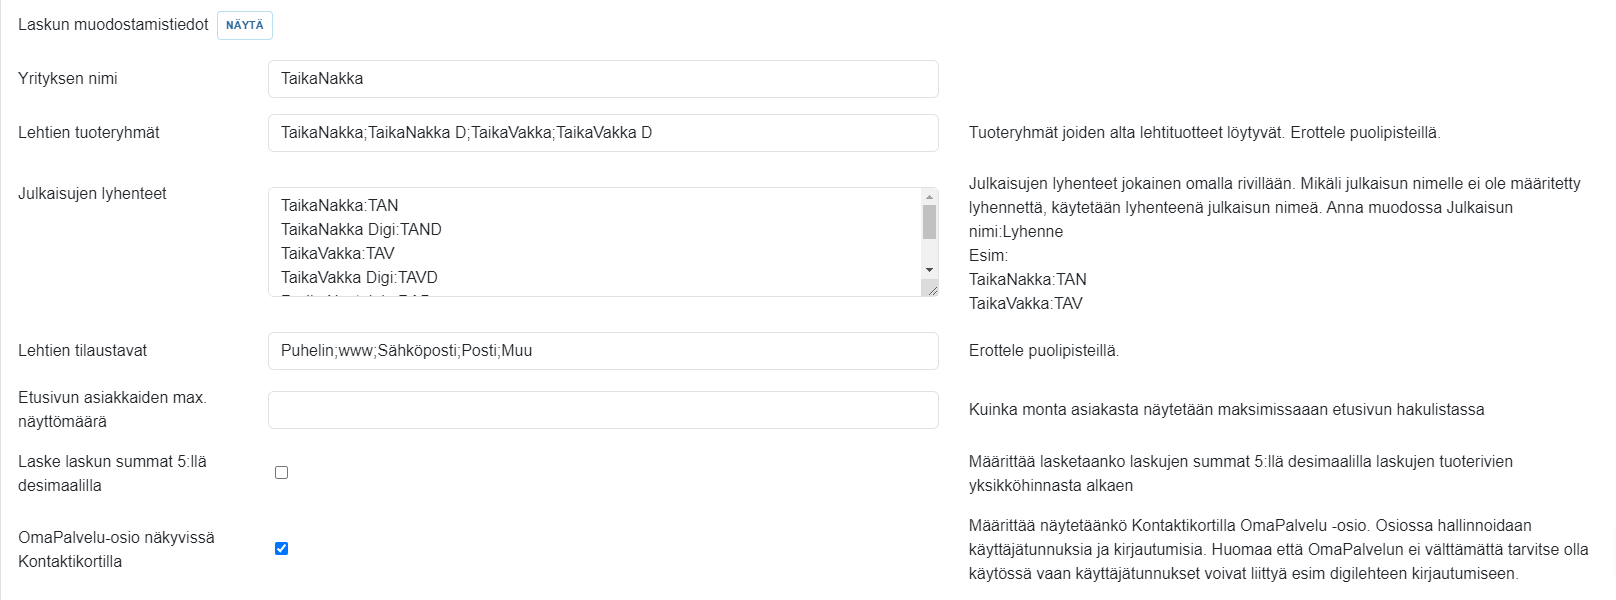
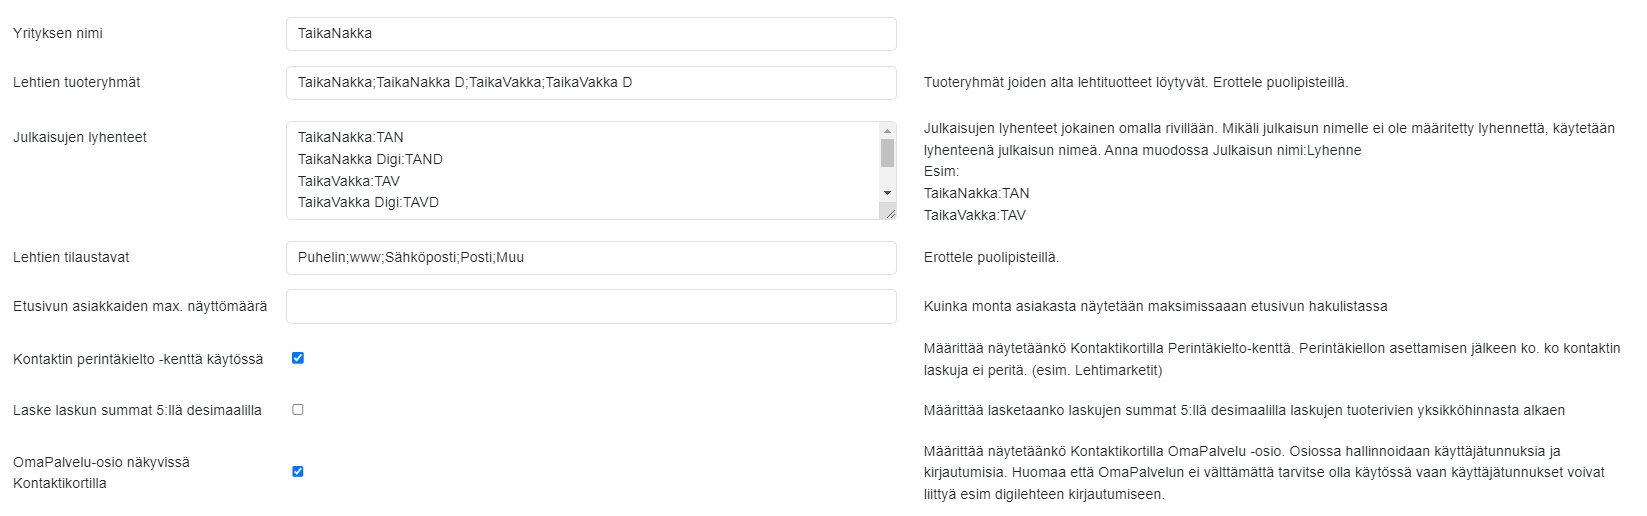
perintäkielto

diff --git a/docs/ohjeet/yleiset_ominaisuudet/asiakkaat.md b/docs/ohjeet/yleiset_ominaisuudet/asiakkaat.md
@@ -51,9 +51,11 @@ Laskutustiedoissa voidaan lisätä asiakkaalle laskutustietojen lisäksi muita t
 - **Suoramaksu**: Suoramaksun aktivointi on verkkopankittoman maksajan maksutapa, eli se sopii asiakkaalle, joka ei käytä verkkopankkia
 - **Koontilasku**: Koontilaskun aktivointi on asiakkaille, jotka haluavat tilaukset yhdelle kokoomalaskulle (yksittäisten tilauslaskujen sijaan)
 - **Laskutuslisä**: Ei laskutuslisää aktivointi on asiakkaille, joilta ei haluta periä automaattisesti lisättävää (ennalta sovittua) laskutuslisää paperilaskujen lähettämisestä (esim. 5 €). Veloitettava oletushinta ja mahdollinen laskun summaan liittyvä rajoitus (esim. peritään vain yli 50,00 € suuruisista laskuista tai pelkästään ilmoituslaskuista) sovitaan käyttöönoton yhteydessä.
+- **Perintäkielto**: aktivoimalla kentän, kyseisen asiakkaan ei maksumuistuteta tai peritä
 - **Alennusprosentti**: voidaan lisätä, jos halutaan lisätä asiakkaalle pysyvä alennusprosentti, joka huomioidaan laskujen luontivaiheessa automaattisesti.
-- **Maksuehto päivä** <!-- //teksti tähän  -->
+- **Maksuehto päivä**: voidaan lisätä kuinka monta päivää asiakkaalla on aikaa maksaa laskunsa, oletuksena aika on 14 päivää
 - **Ilmoitusasiakkaat**:  Lisäksi täällä ilmoitusasiakkaalle liitetään nimetty (oletus) Myyjä, jonka avulla heille aktivoituu Näytä ilmoitusmyynti -linkki Etusivun-listausnäkymään.
+- Jos asiakkaalla on **saldoa** palautuksena katkaistuista maksetuista tilauksista, se näkyy laskutietojen alla
 
 ![Asiakaskortti - Laskutustiedot](/img/ohjeet/laskutustiedot.png)
 *Laskutiedoista pääset muokkaamaan asiakkaan maksu- ja laskutietoja tai lisäämään asiakkaan tilauksille toisen maksaja*

diff --git a/docs/ohjeet/asetukset.md b/docs/ohjeet/asetukset.md
@@ -493,6 +493,7 @@ Painamalla Laskun muodostamistiedot vierässä olevaa **NÄYTÄ**-painiketta ava
 - **Julkaisujen lyhenteet** -kenttään kirjataan eri lehtijulkaisujen nimien lyhenteet omille riveilleen
 - **Lehtien tilaustavat** -kenttään kirjataan, miltä kanavilta lehtiä voi tilata
 - **Etusivun asiakkaiden max. näyttömäärä** -kenttään kirjataan maksimissaan kuinka monta asiakasta näytetään etusivun hakulistassa
+- **Kontaktin perintäkielto -kenttä käytössä** -kentän aktivoidessa asiakaskortin Laskutustiedot-osioon tulee näkyviin Perintäkielto-kenttä, jonka aktivoimalla kyseisen asiakkaan laskuista ei lähetetä maksumuistutuksia eikä niitä peritä
 - **Laske laskun summat 5:llä desimaalilla** -kentän aktivoidessa laskujen summat lasketaan viiden desimaalin tarkkuudella yksikköhinnasta
 - **OmaPalvelu-osio näkyvissä kontaktikortilla** -kentän aktivoidessa OmaPalvelu-alivalikko näytetään asiakaskortilla
 
